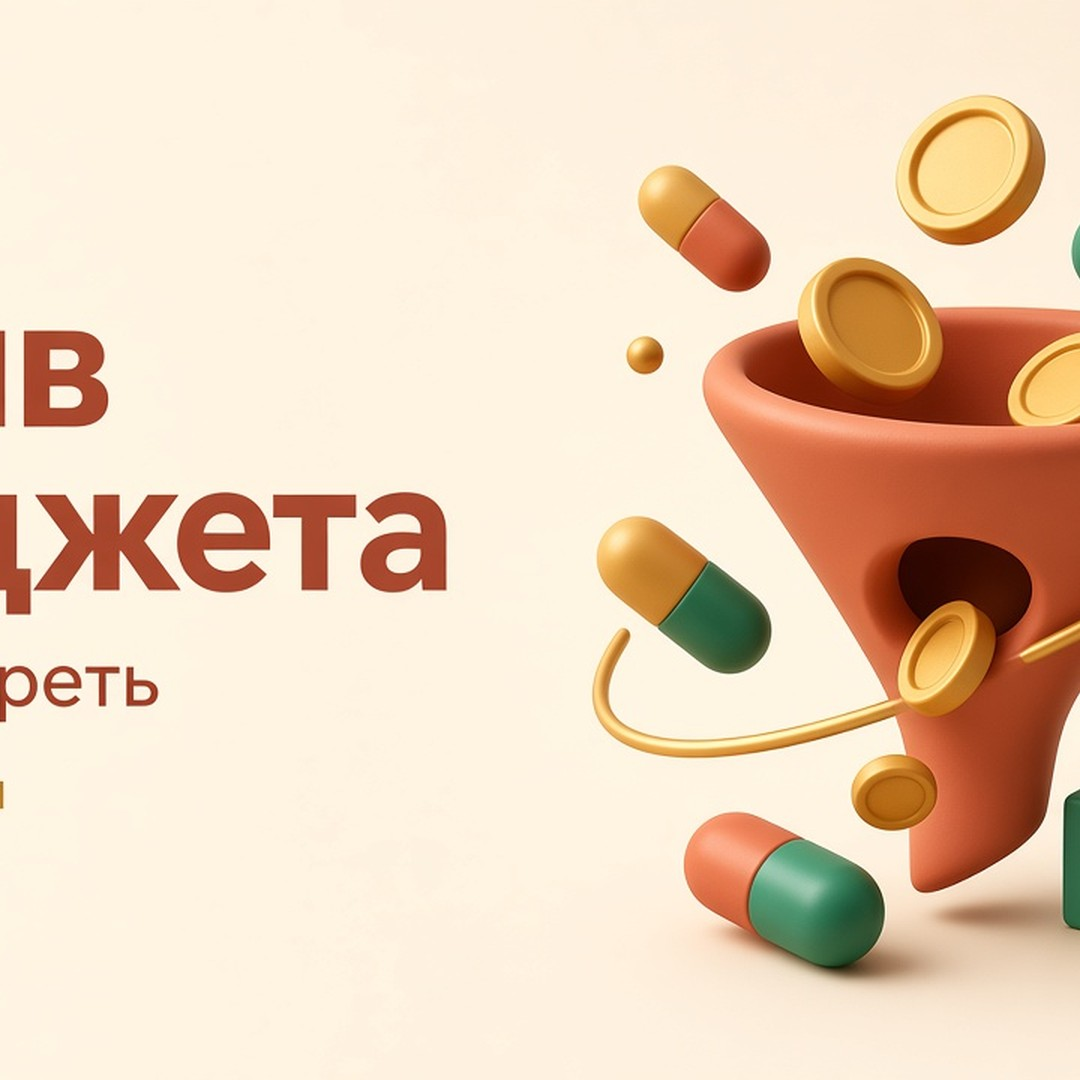
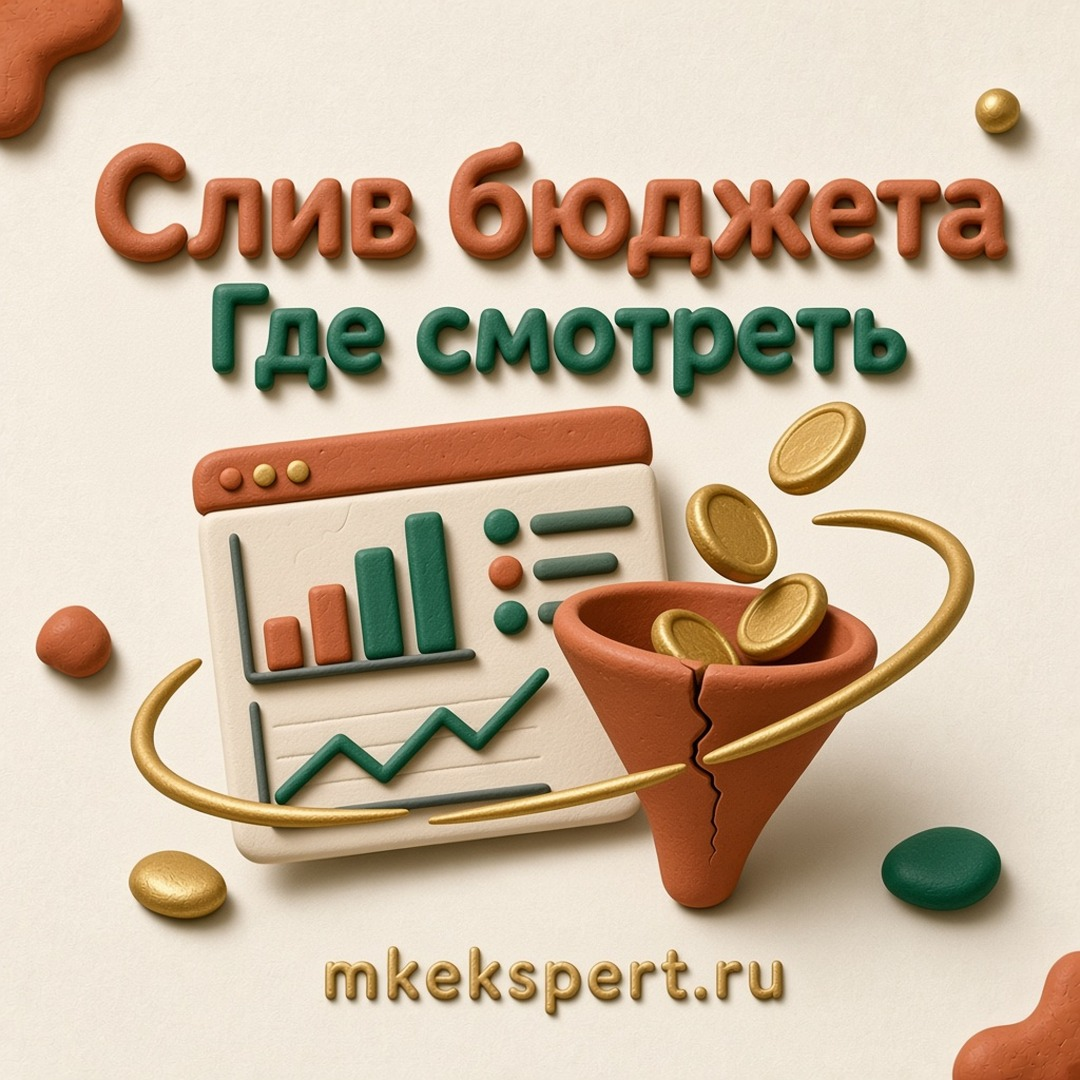
content(vk): rewrite posts and refresh clay covers
Replace dry listicle VK copy with Maria-voice hooks; regenerate
claymorphism covers for week5–8 and budget-waste; update style rules.

diff --git a/автоматизация-контента/articles/vk/vk-week5.md b/автоматизация-контента/articles/vk/vk-week5.md
@@ -1,14 +1,13 @@
-Куда уходит бюджет в Директе: 3 типичные дыры
+«Бюджет крутится, а в CRM тишина» — открываю кабинет и почти всегда вижу одно и то же.
 
-1. Автотаргет и широкие ключи без минус-слов
-2. Одна посадочная на все услуги — конверсия падает
-3. Отчёт по кликам, а не по заявкам — оптимизация не туда
+Три дыры, куда уходят деньги в B2B:
 
-Проверьте кабинет за 15 минут по этим пунктам.
+• Автотаргет и широкие ключи — клики есть, покупателей нет
+• Одна посадочная на все услуги — человек искал одно, попал «о компании»
+• Смотрите клики и CTR, а не заявки — стратегия учится не туда
 
-Чек-лист в статье на Дзене.
+Проверьте эти три пункта за 15 минут. Часто хватает, чтобы понять: проблема не в «Яндексе», а в настройке.
 
-Бесплатный разбор →
-mkekspert.ru/razbor-direct
+Если нужно пройтись по вашему кабинету вместе — напишите РАЗБОР.
 
-@Mariya1740 — напишите РАЗБОР
+→ mkekspert.ru/razbor-direct

diff --git a/автоматизация-контента/articles/vk/vk-week8.md b/автоматизация-контента/articles/vk/vk-week8.md
@@ -1,15 +1,12 @@
-Яндекс Бизнес + Директ — зачем связка
+Яндекс Бизнес «для галочки» и Директ отдельно — частая картина в B2B.
 
-Карточка в Бизнесе даёт доверие и дополнительные точки входа.
-Директ приводит целевой спрос на сайт.
+Зачем связка на практике:
+• карточка ловит тех, кто уже ищет вас по названию
+• отзывы и фото закрывают сомнение после клика из Директа
+• телефон и адрес совпадают с объявлением — меньше «ложных» звонков
 
-Вместе:
-• брендовые запросы не уходят конкурентам
-• отзывы и рейтинг работают на конверсию
-• проще отслеживать звонки и маршруты
+Если карточка пустая или с чужим ассортиментом, часть тёплого спроса уходит мимо заявок.
 
-Не замена Директу — дополнение.
+На разборе смотрю Директ и карточку вместе — не как два разных мира.
 
-Обзор на Дзене на этой неделе.
-
-mkekspert.ru/razbor-direct
+→ mkekspert.ru/razbor-direct

diff --git a/автоматизация-контента/articles/vk/vk-week6.md b/автоматизация-контента/articles/vk/vk-week6.md
@@ -1,11 +1,13 @@
-Как проходит бесплатный разбор рекламы
+Что происходит на бесплатном разборе — без «продажи ведения с порога».
 
-Шаг 1. Вы оставляете заявку на mkekspert.ru/razbor-direct
-Шаг 2. Я смотрю кабинет, Метрику, посадочную
-Шаг 3. На встрече — что съедает бюджет и что править в первую очередь
-Шаг 4. План действий: быстрые правки и что делать дальше
+Вы оставляете заявку. Я захожу в кабинет, Метрику и посадочную до встречи — не в прямом эфире «сейчас посмотрим».
 
-Без «продам ведение любой ценой». Если Директ вам не нужен — скажу честно.
+На созвоне говорю по делу:
+• где сейчас сливается бюджет
+• что править в первую очередь
+• что можно подождать
+
+Если Директ вам сейчас не нужен — скажу прямо. Мне не нужно «закрыть» вас на ведение любой ценой.
 
 Записаться →
 mkekspert.ru/razbor-direct

diff --git a/автоматизация-контента/articles/vk/vk-week7.md b/автоматизация-контента/articles/vk/vk-week7.md
@@ -1,10 +1,12 @@
-Посадочная: 3 правки, которые чаще всего дают +конверсию
+Реклама в Директе «идеальная», а заявок нет? Часто виновата не семантика — посадочная.
 
-• Заголовок = запрос из объявления (не «о компании с 1998 года»)
-• Один главный CTA выше первого экрана
-• Форма короче: имя, телефон, что нужно — не 12 полей
+Три правки, после которых конверсия чаще всего растёт:
 
-Реклама может быть идеальной, а заявок нет — потому что сайт не закрывает боль.
+• Заголовок = тот же запрос, что в объявлении (не «с 1998 года»)
+• Один CTA выше первого экрана — без квеста «найди кнопку»
+• Форма: имя, телефон, что нужно. Не 12 полей «для CRM»
+
+Клиент кликнул с намерением. Если сайт отвечает мимо — бюджет уже сгорел.
 
 Разбор посадочной входит в аудит →
 mkekspert.ru/razbor-direct

diff --git a/автоматизация-контента/references/vk-markup.md b/автоматизация-контента/references/vk-markup.md
@@ -41,10 +41,12 @@ mkekspert.ru/razbor-direct
 
 ### Правила первых строк
 
-1. **Строка 1** = о чём пост (видна в ленте до «Показать полностью»)
-2. **Строка 2–3** — условия/для кого (B2B, Директ, ниша)
+1. **Строка 1** = боль или живая цитата клиента (видна в ленте до «Показать полностью») — не сухой заголовок-список
+2. **Строка 2–3** — ваш взгляд / для кого (B2B, Директ), без канцелярита
 3. Цену, срок, цифру — не прятать в конец
 4. Пустая строка между смысловыми блоками
+5. Не начинать с «N пунктов:» — сначала сцена, потом список
+6. Обложка: claymorphism на ivory `#FDFBF7`, текст целиком в кадре, 3–6 слов крупно (не тёмный flat-шаблон)
 
 ### Акценты без markdown
 

diff --git a/автоматизация-контента/articles/dzen/teasers/vk/2026-10-02-budget.md b/автоматизация-контента/articles/dzen/teasers/vk/2026-10-02-budget.md
@@ -1,10 +1,13 @@
-Куда сливается бюджет в Яндекс Директе — что открываю в кабинете первым
+«Бюджет уходит, заявок нет» — с этой фразы начинается каждый второй разбор.
 
-В статье на Дзене:
+Я не ищу мистику Яндекса. Открываю отчёты по порядку и смотрю, где деньги превращаются в чужой спрос:
+
 • поисковые запросы за 7–14 дней
-• автотаргет и расширения
+• автотаргет и расширения аудитории
 • площадки РСЯ
-• гео, время и посадочная
+• гео, время показа, посадочная
+
+В статье на Дзене — тот же маршрут, которым хожу по кабинету сама.
 
 Читать:
 [ссылка]
